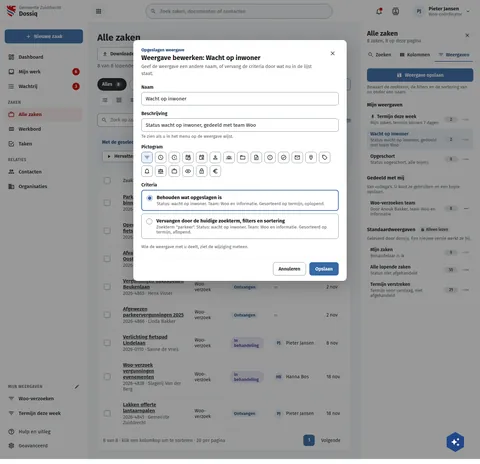
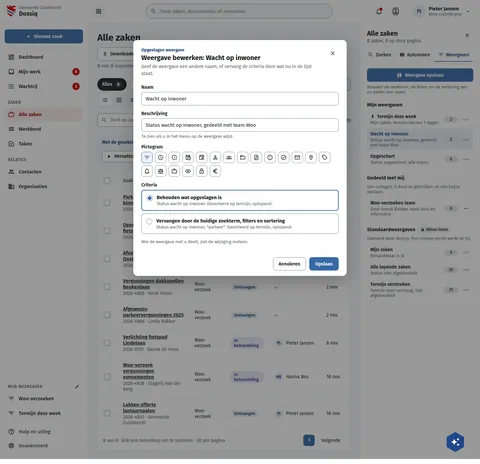
fix(screens): DqFilterBewerken criteria say what live's summary says
The two choices now carry live's criteria summary of the seeded view
("Status wacht op inwoner. Gesorteerd op termijn, oplopend.", and with the
typed search term "parkeer"). The board's Team filter and changed sort do
not exist in the seeded view, so the replace card wrapped to two lines
and pushed the note and buttons 12px down.

Assisted-by: ClaudeCode:claude-opus-5-5

Changed region(s): [[0.2812, 0.4828, 0.6875, 0.5431], [0.2812, 0.5431, 0.7188, 0.6034], [0.5625, 0.4224, 0.6562, 0.4526]]

diff --git a/preview/screens/boards/DqFilterBewerken.html b/preview/screens/boards/DqFilterBewerken.html
@@ -474,8 +474,8 @@ a{color:var(--sc-primary, #3669a5)}a:hover{color:var(--sc-primary-deep, #234a78)
       </div>
       <fieldset style="margin: 0; padding: 0; border: 0; display: flex; flex-direction: column; gap: 8px">
         <legend style="padding: 0 0 6px; font-size: 14px; font-weight: 600">Criteria</legend>
-        <label style="display: flex; align-items: flex-start; gap: 12px; padding: 12px 14px; border: 2px solid var(--sc-primary, #3669a5); border-radius: 8px; background: #ffffff; font-size: 14px"><input type="radio" name="fd-criteria" checked style="flex: none; width: 18px; height: 18px; margin: 2px 0 0; accent-color: var(--sc-primary, #3669a5)"><span style="display: flex; flex-direction: column; gap: 2px"><strong style="font-size: 15px; font-weight: 700">Behouden wat opgeslagen is</strong><span style="font-size: 13px; color: var(--sc-work-muted, #5e6168)">Status: wacht op inwoner. Team: Woo en informatie. Gesorteerd op termijn, oplopend.</span></span></label>
-        <label style="display: flex; align-items: flex-start; gap: 12px; padding: 12px 14px; border: 1px solid var(--sc-work-field, #828a95); border-radius: 8px; font-size: 14px"><input type="radio" name="fd-criteria" style="flex: none; width: 18px; height: 18px; margin: 2px 0 0; accent-color: var(--sc-primary, #3669a5)"><span style="display: flex; flex-direction: column; gap: 2px"><strong style="font-size: 15px; font-weight: 700">Vervangen door de huidige zoekterm, filters en sortering</strong><span style="font-size: 13px; color: var(--sc-work-muted, #5e6168)">Zoekterm "parkeer". Status: wacht op inwoner. Team: Woo en informatie. Gesorteerd op termijn, aflopend.</span></span></label>
+        <label style="display: flex; align-items: flex-start; gap: 12px; padding: 12px 14px; border: 2px solid var(--sc-primary, #3669a5); border-radius: 8px; background: #ffffff; font-size: 14px"><input type="radio" name="fd-criteria" checked style="flex: none; width: 18px; height: 18px; margin: 2px 0 0; accent-color: var(--sc-primary, #3669a5)"><span style="display: flex; flex-direction: column; gap: 2px"><strong style="font-size: 15px; font-weight: 700">Behouden wat opgeslagen is</strong><span style="font-size: 13px; color: var(--sc-work-muted, #5e6168)">Status wacht op inwoner. Gesorteerd op termijn, oplopend.</span></span></label>
+        <label style="display: flex; align-items: flex-start; gap: 12px; padding: 12px 14px; border: 1px solid var(--sc-work-field, #828a95); border-radius: 8px; font-size: 14px"><input type="radio" name="fd-criteria" style="flex: none; width: 18px; height: 18px; margin: 2px 0 0; accent-color: var(--sc-primary, #3669a5)"><span style="display: flex; flex-direction: column; gap: 2px"><strong style="font-size: 15px; font-weight: 700">Vervangen door de huidige zoekterm, filters en sortering</strong><span style="font-size: 13px; color: var(--sc-work-muted, #5e6168)">Status wacht op inwoner, "parkeer". Gesorteerd op termijn, oplopend.</span></span></label>
       </fieldset>
       <span style="font-size: 13px; color: var(--sc-work-muted, #5e6168)">Wie de weergave met u deelt, ziet de wijziging meteen.</span>
     </form>

diff --git a/screens-src/zuiddrecht/FilterDialoog.dc.html b/screens-src/zuiddrecht/FilterDialoog.dc.html
@@ -154,8 +154,8 @@ class Component extends DCLogic {
       isDelen: kind === 'delen', isBewerken: kind === 'bewerken', isVerwijderen: kind === 'verwijderen',
       suggestions, shares,
       description: 'Status wacht op inwoner, gedeeld met team Woo',
-      savedCriteria: 'Status: wacht op inwoner. Team: Woo en informatie. Gesorteerd op termijn, oplopend.',
-      currentCriteria: 'Zoekterm "parkeer". Status: wacht op inwoner. Team: Woo en informatie. Gesorteerd op termijn, aflopend.',
+      savedCriteria: 'Status wacht op inwoner. Gesorteerd op termijn, oplopend.',
+      currentCriteria: 'Status wacht op inwoner, "parkeer". Gesorteerd op termijn, oplopend.',
       sharedLine: 'Het is gedeeld met de groep Woo en informatie en met Anouk Bakker. Ook bij hen verdwijnt het.'
     };
   }
